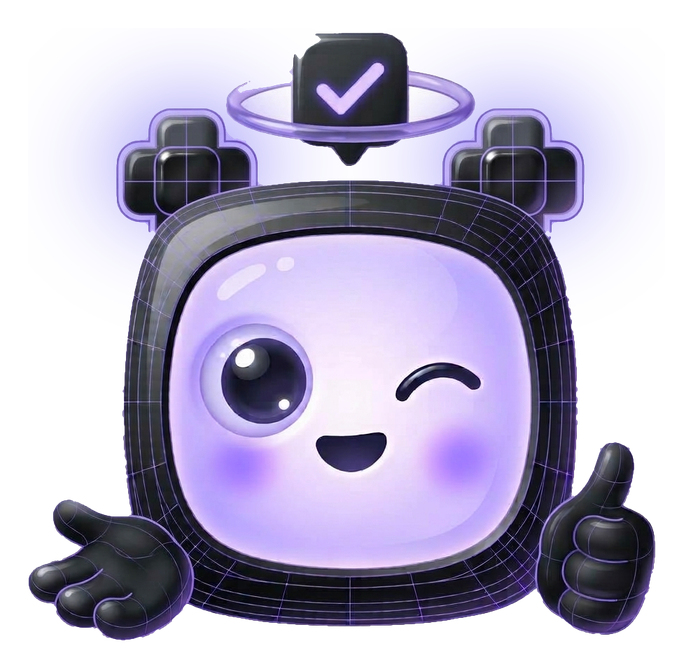
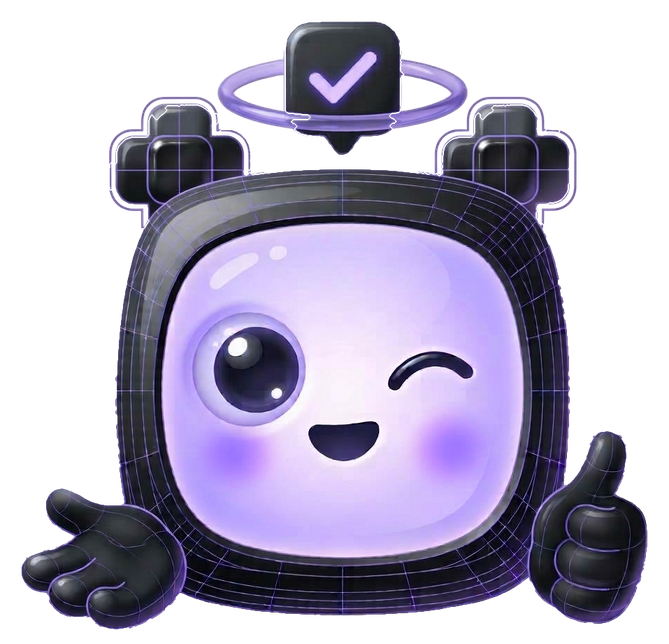
Use the mascot with antenna line work and no haze
Claude-Session: https://claude.ai/code/session_018aKBzehgkAT1tgz3Pm1FJ6

Changed region(s): [[0.0299, 0.0311, 0.9865, 0.9938], [0.568, 0.528, 0.7175, 0.6211], [0.4484, 0.6522, 0.568, 0.7453]]

diff --git a/index.html b/index.html
@@ -166,7 +166,7 @@ section.blk .partner p{max-width:none}
    <p class="fine">We will only use your email to tell you when the agent launches and when we ship updates. No spam, and you can unsubscribe at any time.</p>
   </form>
   </div>
-  <img class="mascot" src="assets/twibbit-cutout.png" alt="Twibbit, a friendly dark robot mascot giving a wink and a thumbs up" width="260" height="245">
+  <img class="mascot" src="assets/twibbit-cutout.png" alt="Twibbit, a friendly dark robot mascot giving a wink and a thumbs up" width="260" height="250">
  </header>
 
  <section class="blk">
@@ -263,7 +263,7 @@ section.blk .partner p{max-width:none}
    <p class="fine">No spam. Unsubscribe at any time.</p>
   </form>
  </div>
- <div class="brand" aria-label="Twibbit"><p class="word" aria-hidden="true">Twibbit</p><img class="cut" src="assets/twibbit-cutout.png" alt="Twibbit, a friendly dark robot mascot giving a wink and a thumbs up" width="285" height="269"></div>
+ <div class="brand" aria-label="Twibbit"><p class="word" aria-hidden="true">Twibbit</p><img class="cut" src="assets/twibbit-cutout.png" alt="Twibbit, a friendly dark robot mascot giving a wink and a thumbs up" width="285" height="274"></div>
 
  <footer>Built by Mogashni, UX designer and researcher, working in public. <a href="research.html">Read the research report</a>.</footer>
 </div>
